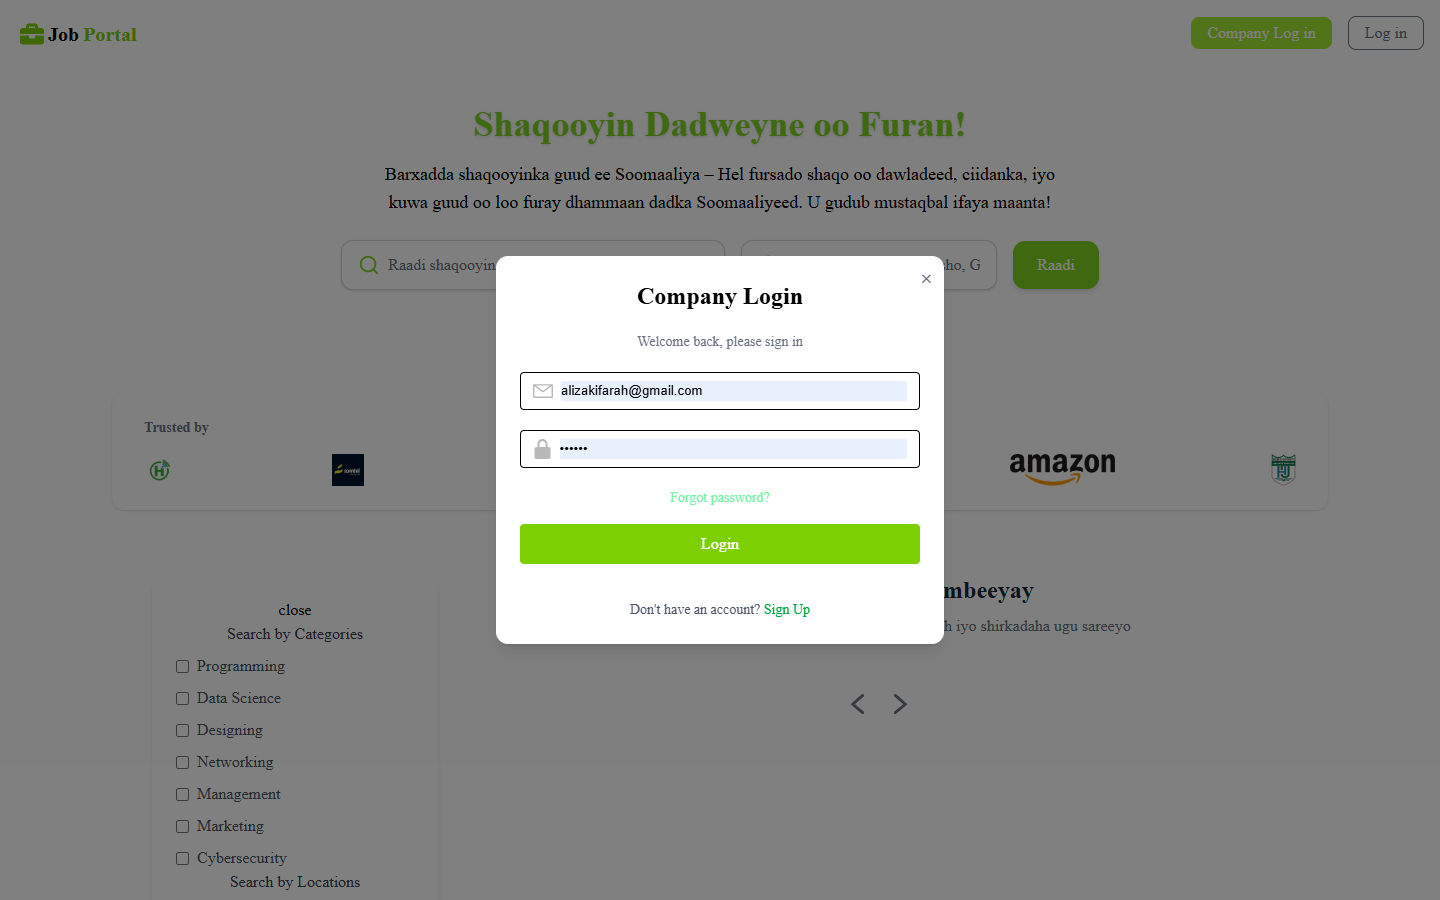
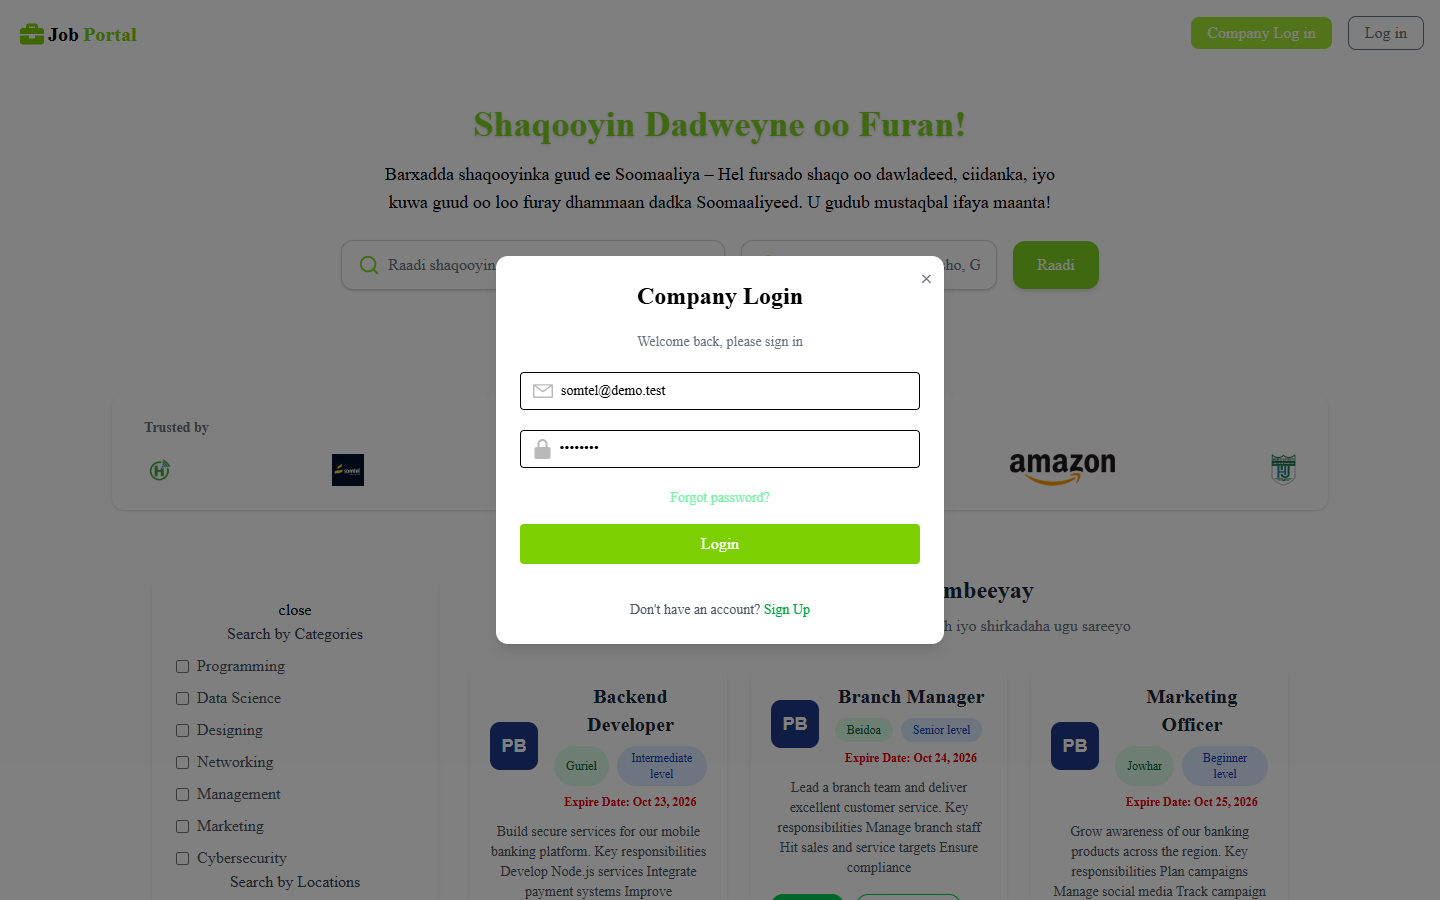
update

diff --git a/README.md b/README.md
@@ -1,13 +1,60 @@
 # job-portal
 job portal web Application for job seekers and companies
 
+## Running locally
+
+Requires Node.js 20+.
+
+1. Install dependencies:
+   ```bash
+   cd server && npm install
+   cd ../client && npm install
+   ```
+2. Create `server/.env` and `client/.env` from the `.env.example` files next to them.
+3. Start a local MongoDB (no install needed; data is kept in `server/.mongo-data`):
+   ```bash
+   cd server && npm run db
+   ```
+   To use MongoDB Atlas instead, set `MONGODB_URI` to your cluster's connection string and skip this step.
+4. Load demo data (companies, jobs, applicants):
+   ```bash
+   cd server && npm run seed
+   ```
+   Demo company login: `somtel@demo.test` / `demo1234`
+5. Start the API and the web app in two terminals:
+   ```bash
+   cd server && npm start
+   ```
+   ```bash
+   cd client && npm run dev
+   ```
+   Open http://localhost:5173
+
 ## Screenshots
 
 ### Home page
 ![Home page](screenshots/home.png)
 
+### Job listings
+![Job listings](screenshots/job-listings.png)
+
+### Job details
+![Job details](screenshots/job-details.png)
+
 ### Company login
 ![Company login](screenshots/company-login.png)
+
+### Company dashboard
+![Company dashboard](screenshots/dashboard.png)
+
+### Add a job
+![Add a job](screenshots/add-job.png)
+
+### Manage jobs
+![Manage jobs](screenshots/manage-jobs.png)
+
+### View applications
+![View applications](screenshots/view-applications.png)
 
 ### Mobile view
 <img src="screenshots/home-mobile.png" alt="Mobile view" width="320">
